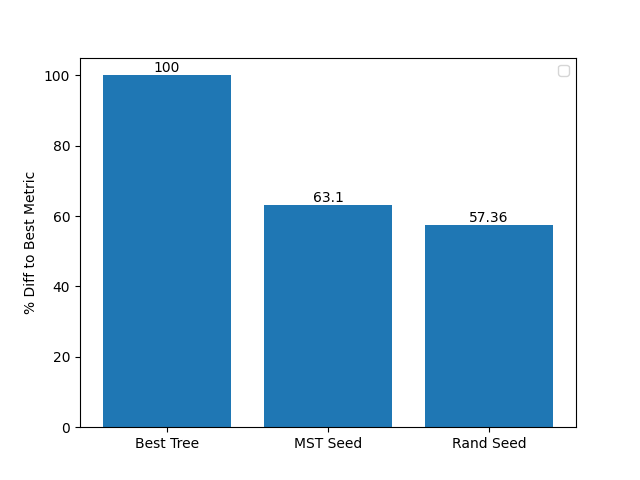
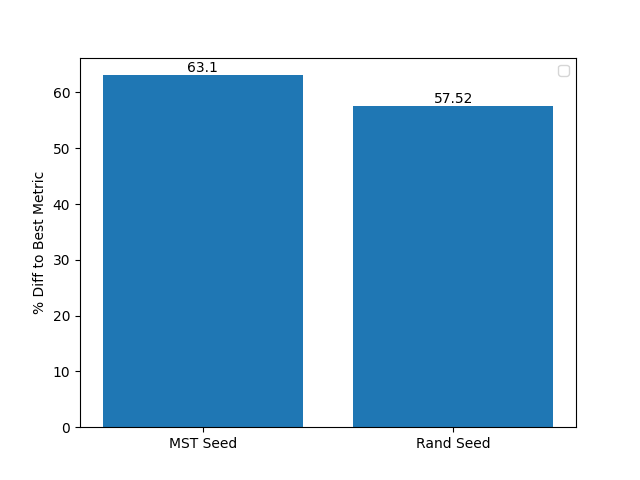
redoing some results

diff --git a/results.py b/results.py
@@ -184,8 +184,8 @@ def brute_comparison(loc, brute_loc, num_graphs, random_samples):
     fig, ax = plt.subplots()
     mst_avg /= num_graphs
     rand_avg /= num_graphs
-    vals = [100, round(mst_avg, 2), round(rand_avg, 2)]
-    trees = ["Best Tree", "MST Seed", "Rand Seed"]
+    vals = [round(mst_avg, 2), round(rand_avg, 2)]
+    trees = ["MST Seed", "Rand Seed"]
     ax.bar(trees, vals)
     ax.bar_label(ax.containers[0], label_type="edge")
     ax.set_ylabel("% Diff to Best Metric")
@@ -224,18 +224,16 @@ def compare_seed_trees(factory, random_samples):
 def compare_seed_trees_diff_targets(
     rounds, random_samples, graph_size, target_counts, loc=None
 ):
-    # TODO: DESC
 
-    avg_percent_better = []
-    mst_zero_counts = []
-    avg_zero_counts = []
-    both_zero_counts = []
+    mst_res = []
+    rand_res = []
+    equal_res = []
+
     # Get data for each target count
     for target_count in target_counts:
-        percent_better_round = []
-        mst_zero_count = 0
-        avg_zero_count = 0
-        both_zero_count = 0
+        mst_better = 0
+        rand_better = 0
+        both_equal = 0
         for _ in range(rounds):
 
             def factory():
@@ -263,31 +261,24 @@ def compare_seed_trees_diff_targets(
                 return G, s, targets, budget
 
             mst_res, avg_res = compare_seed_trees(factory, random_samples)
-            if mst_res == avg_res == 0.0:
-                both_zero_count += 1
-            elif mst_res == 0.0:
-                mst_zero_count += 1
-            elif avg_res == 0.0:
-                avg_zero_count += 1
+            if mst_res > avg_res:
+                mst_better += 1
+            elif avg_res > mst_res:
+                rand_better += 1
             else:
-                percent_better_round.append((avg_res - mst_res) / mst_res * 100)
-
-        avg_percent_better.append(
-            round(sum(percent_better_round) / len(percent_better_round), 2)
-        )
-        mst_zero_counts.append(mst_zero_count)
-        avg_zero_counts.append(avg_zero_count)
-        both_zero_counts.append(both_zero_count)
+                both_equal += 1
+        mst_res.append(mst_better)
+        rand_res.append(rand_better)
+        equal_res.append(both_equal)
 
     if loc != None:
         with open(f"{loc}/{graph_size + 1}x{graph_size + 1}_data.txt", "w") as f:
             f.write(f"Graph Size = {graph_size + 1}x{graph_size + 1}\n")
             for i, target_count in enumerate(target_counts):
                 f.write(f"Target Count: {target_count}\n")
-                f.write(f"    Number of Graphs Both Zero = {both_zero_counts[i]}\n")
-                f.write(f"    Number of Graphs MST Seed Zero = {mst_zero_counts[i]}\n")
-                f.write(f"    Number of Graphs Rand Seed Zero = {avg_zero_counts[i]}\n")
-                f.write(f"    Average % Difference = {avg_percent_better[i]}\n\n")
+                f.write(f"    MST Seed Better  = {mst_res[i]}")
+                f.write(f"    Rand Seed Better = {rand_res[i]}")
+                f.write(f"    Both Equal       = {equal_res[i]}")
 
 
 def random_bench(n, G, s, targets, budget, loc=None):
@@ -445,10 +436,10 @@ def main():
     # # BENCHMARK REATTACHMENT AGAINST BRUTEFORCE #
     # #############################################
 
-    # loc = "results/brute_comparison"
-    # brute_loc = "results/brute"
+    # loc = "final_results/results/brute_comparison"
+    # brute_loc = "final_results/results/brute"
     # num_graphs = 10
-    # random_samples = 100
+    # random_samples = 1000
     # brute_comparison(loc, brute_loc, num_graphs, random_samples)
 
     # ###############################
@@ -483,85 +474,85 @@ def main():
 
     # determine_budget(factory, 10, 1, 3, 60, 25, loc="results/budget")
 
-    # #############################################
-    # # COMPARE RANDOM SEED TREE VS MST SEED TREE #
-    # #############################################
+    #############################################
+    # COMPARE RANDOM SEED TREE VS MST SEED TREE #
+    #############################################
 
-    # results_dir = "results/seed_comparison"
-    # rounds = 20
-    # random_samples = 25
-    # target_counts = [2, 4, 7, 10]
-    # graph_sizes = [7, 10, 12]
-    # for graph_size in graph_sizes:
-    #     loc = f"{results_dir}"
-    #     compare_seed_trees_diff_targets(
-    #         rounds, random_samples, graph_size, target_counts, loc=loc
-    #     )
+    results_dir = "results/seed_comparison"
+    rounds = 20
+    random_samples = 25
+    target_counts = [2, 4, 7, 10]
+    graph_sizes = [7, 10, 12]
+    for graph_size in graph_sizes:
+        loc = f"{results_dir}"
+        compare_seed_trees_diff_targets(
+            rounds, random_samples, graph_size, target_counts, loc=loc
+        )
 
     ####################
     # SPRINT BENCHMARK #
     ####################
 
-    target_count = 15
-    graph_size = 24
+    # target_count = 15
+    # graph_size = 24
 
-    def factory():
-        s, targets = random_points(target_count)
+    # def factory():
+    #     s, targets = random_points(target_count)
 
-        G = form_grid_graph(s, targets, graph_size, graph_size)
-        # G = form_grid_graph(s, targets, graphx, graphy, triangulate=False)
-        # G = form_hex_graph(s, targets, graphx, graphy, 1.0)
-        # G = form_triangle_graph(s, targets, graphx, graphy, 1.0)
-        # display_graph(G)
+    #     G = form_grid_graph(s, targets, graph_size, graph_size)
+    #     # G = form_grid_graph(s, targets, graphx, graphy, triangulate=False)
+    #     # G = form_hex_graph(s, targets, graphx, graphy, 1.0)
+    #     # G = form_triangle_graph(s, targets, graphx, graphy, 1.0)
+    #     # display_graph(G)
 
-        round_targets_to_graph(G, s, targets)
-        targets = [f"target {i}" for i in range(target_count)]
-        s = "start"
-        nx.set_node_attributes(G, 0, "paths")
+    #     round_targets_to_graph(G, s, targets)
+    #     targets = [f"target {i}" for i in range(target_count)]
+    #     s = "start"
+    #     nx.set_node_attributes(G, 0, "paths")
 
-        mst, _ = build_stiener_seed(G, s, targets, minimum=True)
-        size = mst.size(weight="weight")
-        # budget = size * 2.0
-        budget = float("inf")
+    #     mst, _ = build_stiener_seed(G, s, targets, minimum=True)
+    #     size = mst.size(weight="weight")
+    #     # budget = size * 2.0
+    #     budget = float("inf")
 
-        # # rescale weights
-        # for u, v in G.edges:
-        #     G[u][v]["weight"] = G[u][v]["weight"]
+    #     # # rescale weights
+    #     # for u, v in G.edges:
+    #     #     G[u][v]["weight"] = G[u][v]["weight"]
 
-        return G, s, targets, budget
+    #     return G, s, targets, budget
 
-    results_dir = "results/sprint"
-    f = open(f"{results_dir}/res.txt", "w")
-    num_graphs = 50
-    for t in [300, 600]:
-        both_forced = 0
-        algo_better = 0
-        rand_better = 0
-        avg_rand = 0
-        avg_algo = 0
-        for i in range(num_graphs):
-            print(f"Graph {i + 1} / {num_graphs}")
-            rand_res, algo_res, num_rand, num_algo = single_sprint_benchmark(factory, t)
-            if algo_res == rand_res == 0.0:
-                both_forced += 1
-            elif algo_res > rand_res:
-                algo_better += 1
-            else:
-                rand_better += 1
-            avg_rand += num_rand
-            avg_algo += num_algo
-            print(f"    {both_forced = }")
-            print(f"    {algo_better = }")
-            print(f"    {rand_better = }\n")
-        avg_rand /= num_graphs
-        avg_algo /= num_graphs
-        f.write(f"Timespan = {t}s\n")
-        f.write(f"    {both_forced = }\n")
-        f.write(f"    {algo_better = }\n")
-        f.write(f"    {rand_better = }\n")
-        f.write(f"    {avg_rand    = }\n")
-        f.write(f"    {avg_algo    = }\n\n")
-    f.close()
+    # results_dir = "results/sprint"
+    # f = open(f"{results_dir}/res.txt", "w")
+    # num_graphs = 50
+    # for t in [300, 600]:
+    #     both_forced = 0
+    #     algo_better = 0
+    #     rand_better = 0
+    #     avg_rand = 0
+    #     avg_algo = 0
+    #     for i in range(num_graphs):
+    #         print(f"Graph {i + 1} / {num_graphs}")
+    #         rand_res, algo_res, num_rand, num_algo = single_sprint_benchmark(factory, t)
+    #         if algo_res == rand_res == 0.0:
+    #             both_forced += 1
+    #         elif algo_res > rand_res:
+    #             algo_better += 1
+    #         else:
+    #             rand_better += 1
+    #         avg_rand += num_rand
+    #         avg_algo += num_algo
+    #         print(f"    {both_forced = }")
+    #         print(f"    {algo_better = }")
+    #         print(f"    {rand_better = }\n")
+    #     avg_rand /= num_graphs
+    #     avg_algo /= num_graphs
+    #     f.write(f"Timespan = {t}s\n")
+    #     f.write(f"    {both_forced = }\n")
+    #     f.write(f"    {algo_better = }\n")
+    #     f.write(f"    {rand_better = }\n")
+    #     f.write(f"    {avg_rand    = }\n")
+    #     f.write(f"    {avg_algo    = }\n\n")
+    # f.close()
 
     ####################
     # BUDGET BENCHMARK #
